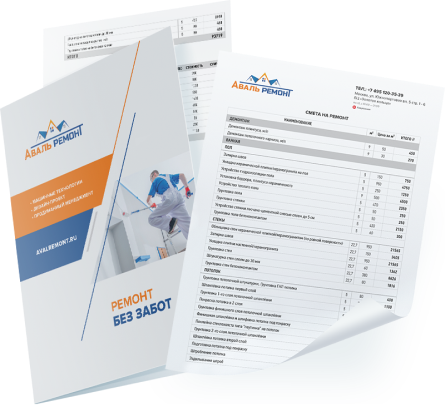
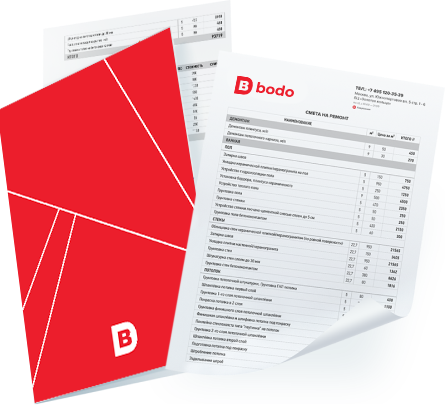
Minor fixes

diff --git a/src/views/Pages/RemontDomov.vue b/src/views/Pages/RemontDomov.vue
@@ -7,7 +7,7 @@
         <div class="container mx-auto">
           <div class="px-4 pb-4">
             <h1 class="mb-4 text-4xl font-medium leading-none">
-              Ремонт домов с компанией “Bodo”
+              Ремонт домов с компанией “bodo”
             </h1>
             <p class="descr">
               Мы являемся лидерами и новаторами в сфере строительных услуг.
@@ -19,7 +19,7 @@
               работ в современной реконструкции.
             </p>
             <p class="my-4 descr">
-              <b class="font-black">BODO</b> гордится отлично налаженным
+              <b class="font-black">bodo</b> гордится отлично налаженным
               менеджментом. За каждым объектом закреплен руководитель. Менеджер
               постоянно находится на объекте, координирует работу команды,
               взаимодействует с управляющей компанией. Таким образом участие
@@ -30,14 +30,14 @@
               Мы считаем качественные черновые работы-залогом успешного ремонта
               дома “под ключ”. Поэтому мы используем только современные
               материалы в прокладке коммуникаций. Например,
-              <b class="font-black">BODO</b>
+              <b class="font-black">bodo</b>
               отказался от установки стальных труб при монтаже водоснабжения.
               Компания применяет высококачественную продукцию из сшитого
               полиэтилена, немецкого бренда Rehau. Такие трубы более устойчивы к
               химическим воздействиям и температурным перепадам.
             </p>
             <p class="my-4 descr">
-              <b class="font-black">BODO</b> первыми в Бишкеке начал применять
+              <b class="font-black">bodo</b> первыми в Бишкеке начал применять
               высокотехнологичное оборудование в чистовой отделке. Те процедуры,
               которые ранее выполнялись мастерами вручную, мы делаем при помощи
               специальных инструментов. Это сократило длительность ремонта дома

diff --git a/src/views/Pages/RemontKvartir.vue b/src/views/Pages/RemontKvartir.vue
@@ -132,7 +132,7 @@
           >
             <h1 class="big-text">Высокое качество работ</h1>
             <p class="my-8 descr">
-              Компания <b class="font-black">BODO</b> активно использует
+              Компания <b class="font-black">bodo</b> активно использует
               высокотехнологичное оборудование в работе “под ключ” в Бишкеке и
               подмосковье. Те услуги по ремонту, которые ранее проводились
               только вручную, теперь выполняются при помощи специального
@@ -146,7 +146,7 @@
           <div class="w-5/12 tab-mini-down:w-3/4 tab-mini-down:mx-auto">
             <div class="relative mt-20 tab-mini-down:mt-4">
               <img
-                src="@/assets/images/cards.jpg"
+                src="@/assets/images/cards.png"
                 class="h-auto max-w-full"
                 alt=""
               />
@@ -197,7 +197,7 @@
           <div class="flex flex-col"></div>
           <h1 class="mb-8 big-text">«Почему мы?»</h1>
           <p class="descr">
-            <b class="font-black">BODO</b> очень много времени и финансов
+            <b class="font-black">bodo</b> очень много времени и финансов
             уделяет повышению квалификации сотрудников. Мы постоянно инвестируем
             в обучение команды современным методам отделки квартиры и применению
             высоких технологий в ремонте. Это позволяет значительно повысить
@@ -211,7 +211,7 @@
             функциональности пространства.
           </p>
           <p class="my-4 descr">
-            <b class="font-black">BODO</b> минимизирует участие заказчика в
+            <b class="font-black">bodo</b> минимизирует участие заказчика в
             ремонте квартиры “под ключ”. Мы берем на себя документальное
             сопровождение проекта, оформление справок в соответствующих
             инстанциях, самостоятельно закупаем строительные материалы и

diff --git a/src/components/FAQ.vue b/src/components/FAQ.vue
@@ -29,7 +29,7 @@ export default {
         {
           title: 'Почему вы можете быть спокойны за свой ремонт?',
           value:
-            'Мы отчитываемся перед заказчиком еженедельно о проделанной работе, соблюдаем сроки и придерживаемся бюджета. Отзывы о компании можно посмотреть на официальном сайте. Кому нужно закупать материалы? BODO самостоятельно закупает и доставляет в квартиру строительные материалы.',
+            'Мы отчитываемся перед заказчиком еженедельно о проделанной работе, соблюдаем сроки и придерживаемся бюджета. Отзывы о компании можно посмотреть на официальном сайте. Кому нужно закупать материалы? bodo самостоятельно закупает и доставляет в квартиру строительные материалы.',
           isActive: false,
         },
         {

diff --git a/src/components/AuthorsWords.vue b/src/components/AuthorsWords.vue
@@ -1,12 +1,12 @@
 <template>
   <div class="authorsWords">
     <div class="flex items-start justify-between tab-mini-down:flex-col">
-      <div class="flex flex-col w-7/12 tab-mini-down:w-full">
+      <div class="flex flex-col w-full tab-mini-down:w-full">
         <img src="@/assets/images/icons/quote.png" class="w-16" alt="" />
         <!-- <div class="w-full h-full bg-yellow-600"></div> -->
         <div :class="[tshow ? 'overflow-hidden max-h-432' : ' ']">
           <p
-            class="mt-4 text-xl font-light phone-down:mt-2"
+            class="mt-4 text-xl font-light text-justify phone-down:mt-2"
             v-html="data.text"
           ></p>
         </div>
@@ -20,7 +20,7 @@
           >{{ tshow ? 'Показать еще' : 'Скрыть' }}</a
         >
       </div>
-      <div
+      <!-- <div
         class="flex flex-col items-center w-4/12 mt-20 mr-8 phone-down:w-3/4 tab-mini-down:w-1/2 tab-mini-down:mx-auto tab-mini-down:mt-10"
       >
         <img :src="data.author.avatar" class="w-full px-20" alt="" />
@@ -29,7 +29,7 @@
           {{ data.author.lastname }}
         </h1>
         <h3 class="text-3xl">{{ data.author.job }}</h3>
-      </div>
+      </div> -->
     </div>
   </div>
 </template>

diff --git a/src/components/InfoImage.vue b/src/components/InfoImage.vue
@@ -13,7 +13,7 @@
               </h1>
               <p class="my-8 text-justify simple-text tab-land-down:text-xl">
                 Инновационное решение от компании
-                <b class="font-black">BODO</b> — расчет точной сметы на работы и
+                <b class="font-black">bodo</b> — расчет точной сметы на работы и
                 черновые материалы прямо во время замера. Всего 30 минут — и
                 смета готова!
               </p>
@@ -76,7 +76,7 @@
             за 30 мин
           </h1>
           <p class="my-8 text-justify simple-text tab-land-down:text-xl">
-            Инновационное решение от компании <b class="font-black">BODO</b> —
+            Инновационное решение от компании <b class="font-black">bodo</b> —
             расчет точной сметы на работы и черновые материалы прямо во время
             замера. Всего 30 минут — и смета готова!
           </p>

diff --git a/src/views/Home.vue b/src/views/Home.vue
@@ -57,7 +57,7 @@
           <span class="font-semibold">МОЖЕТ БЫТЬ БЫСТРЫМ</span> <br />
           <span
             class="tracking-wide text-justify heading-3 tab-land-down:text-4xl"
-            ><b class="font-black">BODO</b> — первая строительная компания
+            ><b class="font-black">bodo</b> — первая строительная компания
             Бишкека, внедрившая современные технологии комплексно во все
             процессы ремонта квартир</span
           >

diff --git a/src/App.vue b/src/App.vue
@@ -6,7 +6,7 @@
         class="container items-center justify-between hidden w-full px-3 py-1 mx-auto bg-white tab-land:flex"
       >
         <div class="flex">
-          <router-link to="/" class="nav-el">Bodo </router-link>
+          <router-link to="/" class="nav-el">bodo </router-link>
         </div>
 
         <div class="flex items-center">

diff --git a/src/components/InfoTabs.vue b/src/components/InfoTabs.vue
@@ -33,7 +33,7 @@
     <transition-group name="tfade" tag="div">
       <div
         v-for="(x, index) in tabText"
-        :key="index"
+        :key="index + 'k'"
         class="flex px-4 py-8 tab-mini-down:px-1"
         :class="[openTab === index + 1 ? 'block' : 'hidden']"
       >

diff --git a/src/views/Pages/Kvartir/Standard.vue b/src/views/Pages/Kvartir/Standard.vue
@@ -105,7 +105,7 @@
           <div class="w-1/2 pl-20">
             <div class="flex">
               <img
-                src="@/assets/images/cards.jpg"
+                src="@/assets/images/cards.png"
                 class="w-full h-full"
                 alt=""
               />

diff --git a/src/components/Sidebar.vue b/src/components/Sidebar.vue
@@ -36,7 +36,7 @@
             <div
               class="flex items-center w-full p-4 text-2xl text-white bg-gray-600 border-l-4 border-royal_blue"
             >
-              Bodo
+              bodo
             </div></router-link
           >
 
